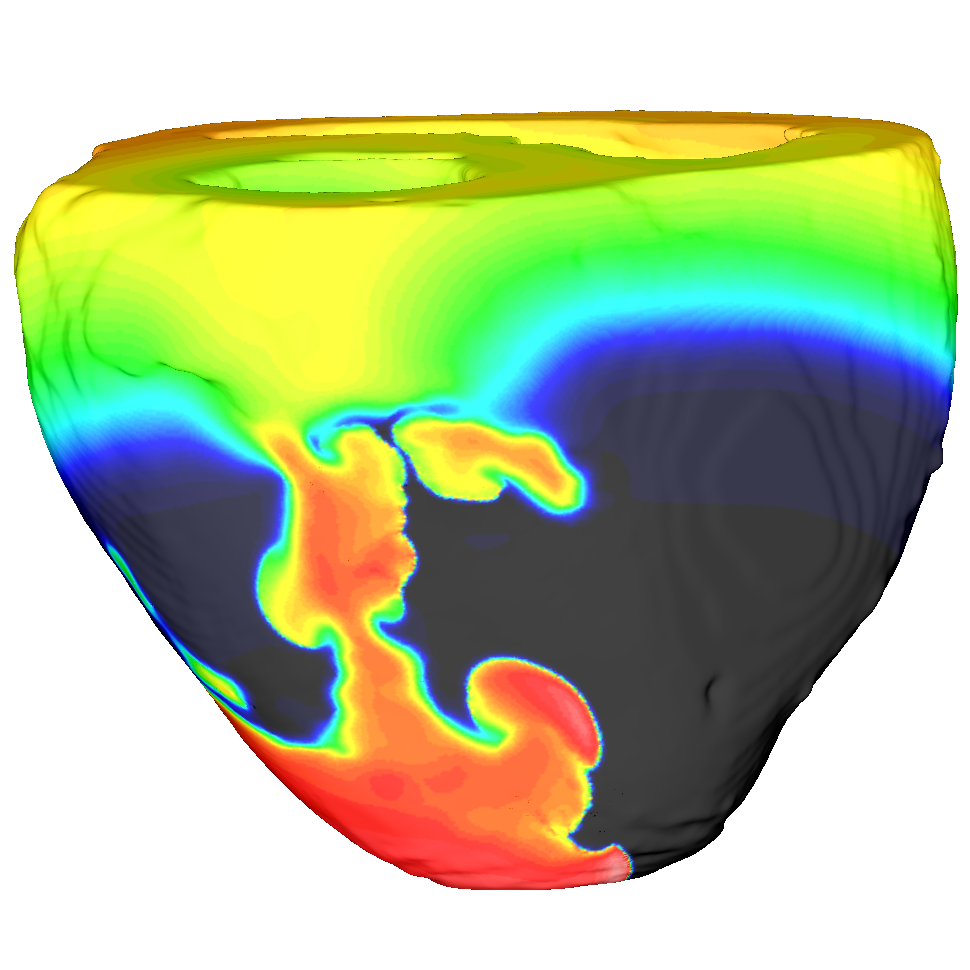
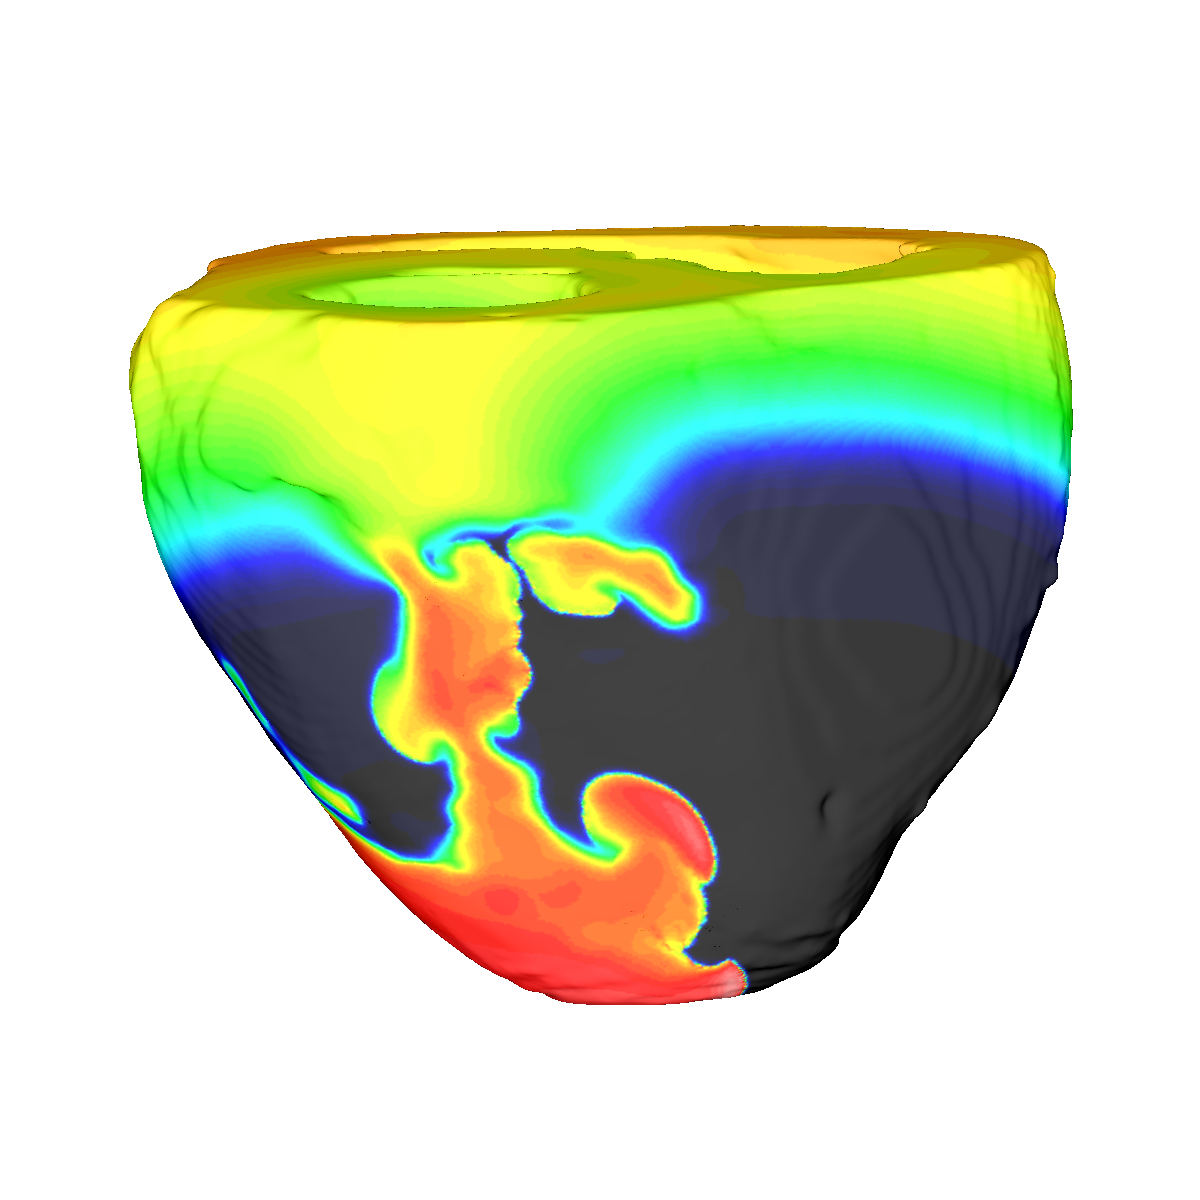
fixups: better mobile for peoples page, collaborators on their own page, better twitter layout

diff --git a/collaborators.html b/collaborators.html
@@ -1,0 +1,19 @@
+---
+layout: default
+---
+
+<div class="full">
+  <div class="row">
+    <div class="large-12 columns">
+      {% include section-header.html title="Collaborators and Clinical Partners"
+      %}
+      <div class="spacing"></div>
+      {% for collaborator in site.data.collaborators %}
+      <h3>{{collaborator.name}}</h3>
+      <p>
+        {{collaborator.description}} (<a href="{{collaborator.link}}">link</a>)
+      </p>
+      {% endfor %}
+    </div>
+  </div>
+</div>

diff --git a/people.html b/people.html
@@ -29,23 +29,17 @@ layout: default
                 </div>
               </div>
             </div>
-            <div class="two spacing"></div>
           </div>
         </div>
         <div class="small-6 medium-9 large-9 columns">
-          <h4>{{member.name}}</h4>
+          <h3>{{member.name}}</h3>
+        </div>
+        <div class="small-12 medium-9 large-9 columns">
           <p>{{member.desc}}</p>
+          <div class="two spacing"></div>
         </div>
       </div>
       {% endfor %} <br />
-      <div class="large-12 columns">
-        {% include section-header.html title="Collaborators and Clinical Partners" %}
-        <div class="spacing"></div>
-        {% for collaborator in site.data.collaborators %}
-          <h3>{{collaborator.name}}</h3>
-          <p>{{collaborator.description}} (<a href="{{collaborator.link}}">link</a>)</p>
-        {% endfor %}
-      </div>
     </div>
   </div>
 </div>

diff --git a/css/style.css b/css/style.css
@@ -3839,3 +3839,15 @@ table{
 td.description {
   width: 70%;
 }
+
+#twitter {
+    margin-left:25%;
+    width: 50%;
+}
+
+@media only screen and (max-width: 60em) {
+    #twitter {
+        margin-left: 10%;
+        width: 80%;
+    }
+}

diff --git a/index.html b/index.html
@@ -110,10 +110,10 @@ slides:
   </div>
   <div class="row">
     <div class="large-12 columns">
-      <span style="margin-left:25%">
+      <div id="twitter">
         <a
           class="twitter-timeline"
-          data-width="50%"
+          data-width="100%"
           data-height="1000"
           data-theme="light"
           data-link-color="#E81C4F"
@@ -125,7 +125,7 @@ slides:
           src="https://platform.twitter.com/widgets.js"
           charset="utf-8"
         ></script>
-      </span>
+      </div>
     </div>
   </div>
 </div>